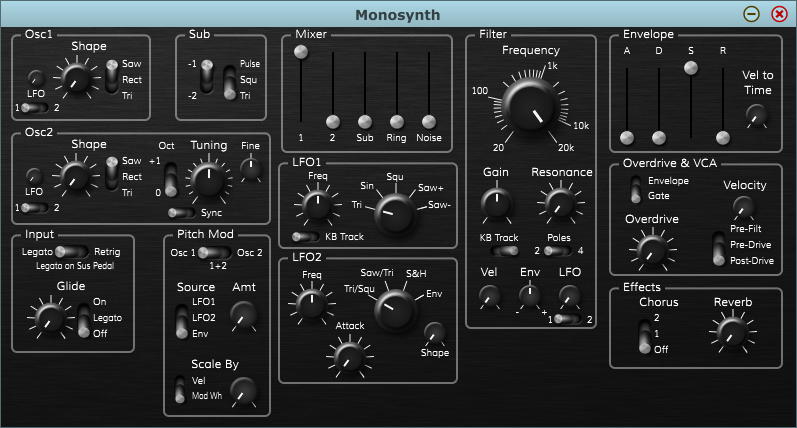
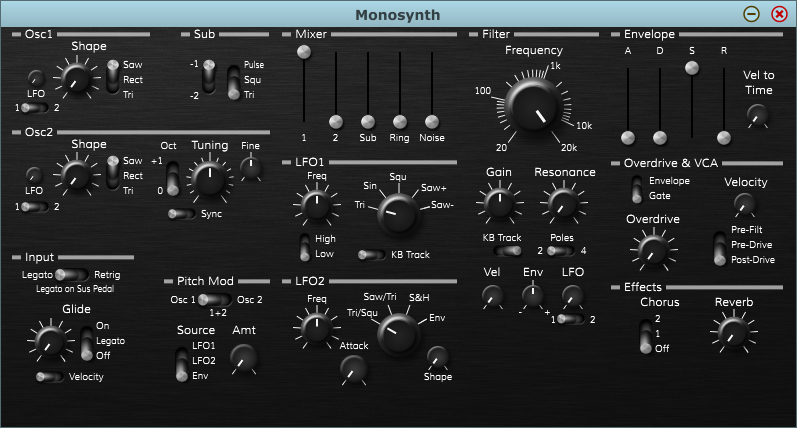
De-uglified group components

diff --git a/Source/Gui/MainGui.cpp b/Source/Gui/MainGui.cpp
@@ -45,17 +45,17 @@ MainGui::MainGui (MonosynthAudioProcessor& p)
 
     addAndMakeVisible (groupComponent10 = new GroupComponent ("new group",
                                                               TRANS("LFO2")));
-    groupComponent10->setColour (GroupComponent::outlineColourId, Colour (0x66ffffff));
+    groupComponent10->setColour (GroupComponent::outlineColourId, Colour (0x99ffffff));
     groupComponent10->setColour (GroupComponent::textColourId, Colours::white);
 
     addAndMakeVisible (groupComponent12 = new GroupComponent ("new group",
                                                               TRANS("Effects")));
-    groupComponent12->setColour (GroupComponent::outlineColourId, Colour (0x66ffffff));
+    groupComponent12->setColour (GroupComponent::outlineColourId, Colour (0x99ffffff));
     groupComponent12->setColour (GroupComponent::textColourId, Colours::white);
 
     addAndMakeVisible (groupComponent11 = new GroupComponent ("new group",
                                                               TRANS("Pitch Mod")));
-    groupComponent11->setColour (GroupComponent::outlineColourId, Colour (0x66ffffff));
+    groupComponent11->setColour (GroupComponent::outlineColourId, Colour (0x99ffffff));
     groupComponent11->setColour (GroupComponent::textColourId, Colours::white);
 
     addAndMakeVisible (label70 = new Label ("new label",
@@ -84,12 +84,12 @@ MainGui::MainGui (MonosynthAudioProcessor& p)
 
     addAndMakeVisible (groupComponent2 = new GroupComponent ("new group",
                                                              TRANS("Mixer")));
-    groupComponent2->setColour (GroupComponent::outlineColourId, Colour (0x66ffffff));
+    groupComponent2->setColour (GroupComponent::outlineColourId, Colour (0x99ffffff));
     groupComponent2->setColour (GroupComponent::textColourId, Colours::white);
 
     addAndMakeVisible (groupComponent6 = new GroupComponent ("new group",
                                                              TRANS("Overdrive & VCA")));
-    groupComponent6->setColour (GroupComponent::outlineColourId, Colour (0x66ffffff));
+    groupComponent6->setColour (GroupComponent::outlineColourId, Colour (0x99ffffff));
     groupComponent6->setColour (GroupComponent::textColourId, Colours::white);
 
     addAndMakeVisible (groupComponent13 = new GroupComponent ("new group",
@@ -99,7 +99,7 @@ MainGui::MainGui (MonosynthAudioProcessor& p)
 
     addAndMakeVisible (groupComponent3 = new GroupComponent ("new group",
                                                              TRANS("Filter")));
-    groupComponent3->setColour (GroupComponent::outlineColourId, Colour (0x66ffffff));
+    groupComponent3->setColour (GroupComponent::outlineColourId, Colour (0x99ffffff));
     groupComponent3->setColour (GroupComponent::textColourId, Colours::white);
 
     addAndMakeVisible (swi_filt_poles = new Slider ("Filter Poles"));
@@ -110,12 +110,12 @@ MainGui::MainGui (MonosynthAudioProcessor& p)
 
     addAndMakeVisible (groupComponent4 = new GroupComponent ("new group",
                                                              TRANS("Osc2")));
-    groupComponent4->setColour (GroupComponent::outlineColourId, Colour (0x66ffffff));
+    groupComponent4->setColour (GroupComponent::outlineColourId, Colour (0x99ffffff));
     groupComponent4->setColour (GroupComponent::textColourId, Colours::white);
 
     addAndMakeVisible (groupComponent = new GroupComponent ("new group",
                                                             TRANS("Osc1")));
-    groupComponent->setColour (GroupComponent::outlineColourId, Colour (0x66ffffff));
+    groupComponent->setColour (GroupComponent::outlineColourId, Colour (0x99ffffff));
     groupComponent->setColour (GroupComponent::textColourId, Colours::white);
 
     addAndMakeVisible (sli_o1_sh = new Slider ("Osc 1 Shape"));
@@ -126,12 +126,12 @@ MainGui::MainGui (MonosynthAudioProcessor& p)
 
     addAndMakeVisible (groupComponent8 = new GroupComponent ("new group",
                                                              TRANS("Input")));
-    groupComponent8->setColour (GroupComponent::outlineColourId, Colour (0x66ffffff));
+    groupComponent8->setColour (GroupComponent::outlineColourId, Colour (0x99ffffff));
     groupComponent8->setColour (GroupComponent::textColourId, Colours::white);
 
     addAndMakeVisible (groupComponent5 = new GroupComponent ("new group",
                                                              TRANS("Sub")));
-    groupComponent5->setColour (GroupComponent::outlineColourId, Colour (0x66ffffff));
+    groupComponent5->setColour (GroupComponent::outlineColourId, Colour (0x99ffffff));
     groupComponent5->setColour (GroupComponent::textColourId, Colours::white);
 
     addAndMakeVisible (sli_o2_sh = new Slider ("Osc 2 Shape"));
@@ -325,7 +325,7 @@ MainGui::MainGui (MonosynthAudioProcessor& p)
 
     addAndMakeVisible (groupComponent7 = new GroupComponent ("new group",
                                                              TRANS("Envelope")));
-    groupComponent7->setColour (GroupComponent::outlineColourId, Colour (0x66ffffff));
+    groupComponent7->setColour (GroupComponent::outlineColourId, Colour (0x99ffffff));
     groupComponent7->setColour (GroupComponent::textColourId, Colours::white);
 
     addAndMakeVisible (sli_env_att = new Slider ("Env Attack"));
@@ -411,7 +411,7 @@ MainGui::MainGui (MonosynthAudioProcessor& p)
 
     addAndMakeVisible (groupComponent9 = new GroupComponent ("new group",
                                                              TRANS("LFO1")));
-    groupComponent9->setColour (GroupComponent::outlineColourId, Colour (0x66ffffff));
+    groupComponent9->setColour (GroupComponent::outlineColourId, Colour (0x99ffffff));
     groupComponent9->setColour (GroupComponent::textColourId, Colours::white);
 
     addAndMakeVisible (sli_glide_amt = new Slider ("new slider"));
@@ -1537,10 +1537,10 @@ void MainGui::resized()
 
     groupComponent10->setBounds (278, 247, 181, 118);
     groupComponent12->setBounds (607, 253, 178, 91);
-    groupComponent11->setBounds (160, 237, 112, 128);
-    label70->setBounds (162, 259, 38, 8);
-    label80->setBounds (189, 271, 56, 10);
-    swi_pitchmod_dest->setBounds (188, 253, 56, 20);
+    groupComponent11->setBounds (160, 247, 112, 118);
+    label70->setBounds (162, 269, 38, 8);
+    label80->setBounds (189, 281, 56, 10);
+    swi_pitchmod_dest->setBounds (188, 263, 56, 20);
     groupComponent2->setBounds (278, 0, 181, 128);
     groupComponent6->setBounds (607, 129, 178, 122);
     groupComponent13->setBounds (1400, -128, 240, 80);
@@ -1585,7 +1585,7 @@ void MainGui::resized()
     label20->setBounds (711, 16, 24, 16);
     sli_filt_gain->setBounds (471, 153, 56, 48);
     label21->setBounds (470, 137, 56, 16);
-    sli_pitchmod_amt->setBounds (223, 305, 40, 40);
+    sli_pitchmod_amt->setBounds (223, 311, 40, 40);
     label7->setBounds (13, 159, 40, 10);
     label25->setBounds (15, 62, 40, 10);
     groupComponent9->setBounds (278, 128, 181, 116);
@@ -1626,7 +1626,7 @@ void MainGui::resized()
     label64->setBounds (90, 308, 39, 12);
     label65->setBounds (90, 324, 32, 10);
     swi_glide->setBounds (76, 285, 20, 56);
-    label69->setBounds (231, 259, 38, 8);
+    label69->setBounds (231, 269, 38, 8);
     label23->setBounds (575, 219, 16, 10);
     label72->setBounds (531, 219, 16, 10);
     label73->setBounds (541, 206, 40, 10);
@@ -1647,16 +1647,16 @@ void MainGui::resized()
     label88->setBounds (309, 206, 36, 12);
     label90->setBounds (309, 221, 36, 12);
     swi_lfo1_range->setBounds (296, 198, 16, 40);
-    label91->setBounds (186, 308, 40, 10);
-    label92->setBounds (186, 323, 40, 10);
-    label93->setBounds (186, 338, 40, 10);
-    swi_pitchmod_src->setBounds (171, 300, 20, 56);
+    label91->setBounds (186, 314, 40, 10);
+    label92->setBounds (186, 329, 40, 10);
+    label93->setBounds (186, 344, 40, 10);
+    swi_pitchmod_src->setBounds (171, 306, 20, 56);
     label96->setBounds (385, 223, 61, 10);
     swi_lfo1_kb->setBounds (353, 220, 40, 16);
     label100->setBounds (60, 110, 56, 14);
     label101->setBounds (60, 12, 56, 14);
-    label105->setBounds (223, 289, 40, 16);
-    label106->setBounds (163, 289, 64, 16);
+    label105->setBounds (223, 295, 40, 16);
+    label106->setBounds (163, 295, 64, 16);
     label76->setBounds (538, 280, 18, 10);
     label77->setBounds (511, 280, 15, 10);
     label110->setBounds (486, 113, 25, 16);
@@ -2123,59 +2123,59 @@ BEGIN_JUCER_METADATA
                  initialHeight="400">
   <BACKGROUND backgroundColour="ff1c1c1c"/>
   <GROUPCOMPONENT name="new group" id="2f9f6ffa0d9e55e2" memberName="groupComponent10"
-                  virtualName="" explicitFocusOrder="0" pos="278 247 181 118" outlinecol="66ffffff"
+                  virtualName="" explicitFocusOrder="0" pos="278 247 181 118" outlinecol="99ffffff"
                   textcol="ffffffff" title="LFO2"/>
   <GROUPCOMPONENT name="new group" id="9da2be2e767c916e" memberName="groupComponent12"
-                  virtualName="" explicitFocusOrder="0" pos="607 253 178 91" outlinecol="66ffffff"
+                  virtualName="" explicitFocusOrder="0" pos="607 253 178 91" outlinecol="99ffffff"
                   textcol="ffffffff" title="Effects"/>
   <GROUPCOMPONENT name="new group" id="303c96ba3a6d7786" memberName="groupComponent11"
-                  virtualName="" explicitFocusOrder="0" pos="160 237 112 128" outlinecol="66ffffff"
+                  virtualName="" explicitFocusOrder="0" pos="160 247 112 118" outlinecol="99ffffff"
                   textcol="ffffffff" title="Pitch Mod"/>
   <LABEL name="new label" id="331f3423dbdd9216" memberName="label70" virtualName=""
-         explicitFocusOrder="0" pos="162 259 38 8" textCol="ffffffff"
+         explicitFocusOrder="0" pos="162 269 38 8" textCol="ffffffff"
          edTextCol="ff000000" edBkgCol="0" labelText="Osc 1" editableSingleClick="0"
          editableDoubleClick="0" focusDiscardsChanges="0" fontname="Default font"
          fontsize="12" bold="0" italic="0" justification="34"/>
   <LABEL name="new label" id="37e280526a434fe5" memberName="label80" virtualName=""
-         explicitFocusOrder="0" pos="189 271 56 10" textCol="ffffffff"
+         explicitFocusOrder="0" pos="189 281 56 10" textCol="ffffffff"
          edTextCol="ff000000" edBkgCol="0" labelText="1+2" editableSingleClick="0"
          editableDoubleClick="0" focusDiscardsChanges="0" fontname="Default font"
          fontsize="12" bold="0" italic="0" justification="36"/>
   <SLIDER name="new slider" id="6fa656f8bb87a7db" memberName="swi_pitchmod_dest"
-          virtualName="" explicitFocusOrder="0" pos="188 253 56 20" min="1"
+          virtualName="" explicitFocusOrder="0" pos="188 263 56 20" min="1"
           max="2" int="0.5" style="LinearHorizontal" textBoxPos="NoTextBox"
           textBoxEditable="1" textBoxWidth="80" textBoxHeight="20" skewFactor="1"/>
   <GROUPCOMPONENT name="new group" id="2bd57dadf55e124b" memberName="groupComponent2"
-                  virtualName="" explicitFocusOrder="0" pos="278 0 181 128" outlinecol="66ffffff"
+                  virtualName="" explicitFocusOrder="0" pos="278 0 181 128" outlinecol="99ffffff"
                   textcol="ffffffff" title="Mixer"/>
   <GROUPCOMPONENT name="new group" id="d354cd4b1913022f" memberName="groupComponent6"
-                  virtualName="" explicitFocusOrder="0" pos="607 129 178 122" outlinecol="66ffffff"
+                  virtualName="" explicitFocusOrder="0" pos="607 129 178 122" outlinecol="99ffffff"
                   textcol="ffffffff" title="Overdrive &amp; VCA"/>
   <GROUPCOMPONENT name="new group" id="4290aa3f94cba83c" memberName="groupComponent13"
                   virtualName="" explicitFocusOrder="0" pos="1400 -128 240 80"
                   outlinecol="66ffffff" textcol="ffffffff" title="Effects"/>
   <GROUPCOMPONENT name="new group" id="b5f4751ee1ed8057" memberName="groupComponent3"
-                  virtualName="" explicitFocusOrder="0" pos="465 0 136 304" outlinecol="66ffffff"
+                  virtualName="" explicitFocusOrder="0" pos="465 0 136 304" outlinecol="99ffffff"
                   textcol="ffffffff" title="Filter"/>
   <SLIDER name="Filter Poles" id="9366d7598a118d48" memberName="swi_filt_poles"
           virtualName="" explicitFocusOrder="0" pos="542 216 40 16" min="2"
           max="4" int="2" style="LinearHorizontal" textBoxPos="NoTextBox"
           textBoxEditable="1" textBoxWidth="80" textBoxHeight="20" skewFactor="1"/>
   <GROUPCOMPONENT name="new group" id="3c0dca09a310f370" memberName="groupComponent4"
-                  virtualName="" explicitFocusOrder="0" pos="8 98 264 102" outlinecol="66ffffff"
+                  virtualName="" explicitFocusOrder="0" pos="8 98 264 102" outlinecol="99ffffff"
                   textcol="ffffffff" title="Osc2"/>
   <GROUPCOMPONENT name="new group" id="9fb59b5f6494cccc" memberName="groupComponent"
-                  virtualName="" explicitFocusOrder="0" pos="8 0 144 96" outlinecol="66ffffff"
+                  virtualName="" explicitFocusOrder="0" pos="8 0 144 96" outlinecol="99ffffff"
                   textcol="ffffffff" title="Osc1"/>
   <SLIDER name="Osc 1 Shape" id="13d0d9d98ecd6c62" memberName="sli_o1_sh"
           virtualName="" explicitFocusOrder="0" pos="48 28 56 48" min="0"
           max="10" int="0" style="RotaryVerticalDrag" textBoxPos="NoTextBox"
           textBoxEditable="1" textBoxWidth="80" textBoxHeight="20" skewFactor="1"/>
   <GROUPCOMPONENT name="new group" id="d9483dc1d74a73c9" memberName="groupComponent8"
-                  virtualName="" explicitFocusOrder="0" pos="8 223 128 142" outlinecol="66ffffff"
+                  virtualName="" explicitFocusOrder="0" pos="8 223 128 142" outlinecol="99ffffff"
                   textcol="ffffffff" title="Input"/>
   <GROUPCOMPONENT name="new group" id="f6c32fd096d279ac" memberName="groupComponent5"
-                  virtualName="" explicitFocusOrder="0" pos="177 0 94 96" outlinecol="66ffffff"
+                  virtualName="" explicitFocusOrder="0" pos="177 0 94 96" outlinecol="99ffffff"
                   textcol="ffffffff" title="Sub"/>
   <SLIDER name="Osc 2 Shape" id="cc7559654e6a39df" memberName="sli_o2_sh"
           virtualName="" explicitFocusOrder="0" pos="48 125 56 48" min="0"
@@ -2293,7 +2293,7 @@ BEGIN_JUCER_METADATA
          editableDoubleClick="0" focusDiscardsChanges="0" fontname="Default font"
          fontsize="15" bold="0" italic="0" justification="36"/>
   <GROUPCOMPONENT name="new group" id="8e4a429367bb6ed1" memberName="groupComponent7"
-                  virtualName="" explicitFocusOrder="0" pos="607 0 178 128" outlinecol="66ffffff"
+                  virtualName="" explicitFocusOrder="0" pos="607 0 178 128" outlinecol="99ffffff"
                   textcol="ffffffff" title="Envelope"/>
   <SLIDER name="Env Attack" id="9256184baa5e0e12" memberName="sli_env_att"
           virtualName="" explicitFocusOrder="0" pos="615 32 24 88" min="0"
@@ -2329,7 +2329,7 @@ BEGIN_JUCER_METADATA
          editableDoubleClick="0" focusDiscardsChanges="0" fontname="Default font"
          fontsize="15" bold="0" italic="0" justification="36"/>
   <SLIDER name="new slider" id="12fca17f8b6adf7a" memberName="sli_pitchmod_amt"
-          virtualName="" explicitFocusOrder="0" pos="223 305 40 40" min="0"
+          virtualName="" explicitFocusOrder="0" pos="223 311 40 40" min="0"
           max="10" int="0" style="RotaryVerticalDrag" textBoxPos="NoTextBox"
           textBoxEditable="1" textBoxWidth="80" textBoxHeight="20" skewFactor="1"/>
   <LABEL name="new label" id="208afd31b5af01cf" memberName="label7" virtualName=""
@@ -2343,7 +2343,7 @@ BEGIN_JUCER_METADATA
          focusDiscardsChanges="0" fontname="Default font" fontsize="12"
          bold="0" italic="0" justification="36"/>
   <GROUPCOMPONENT name="new group" id="d530435b1472d6bd" memberName="groupComponent9"
-                  virtualName="" explicitFocusOrder="0" pos="278 128 181 116" outlinecol="66ffffff"
+                  virtualName="" explicitFocusOrder="0" pos="278 128 181 116" outlinecol="99ffffff"
                   textcol="ffffffff" title="LFO1"/>
   <SLIDER name="new slider" id="ca4ffa3f27169af8" memberName="sli_glide_amt"
           virtualName="" explicitFocusOrder="0" pos="22 291 56 48" min="0"
@@ -2514,7 +2514,7 @@ BEGIN_JUCER_METADATA
           max="2" int="1" style="LinearVertical" textBoxPos="NoTextBox"
           textBoxEditable="1" textBoxWidth="80" textBoxHeight="20" skewFactor="1"/>
   <LABEL name="new label" id="f621af72285c3ecd" memberName="label69" virtualName=""
-         explicitFocusOrder="0" pos="231 259 38 8" textCol="ffffffff"
+         explicitFocusOrder="0" pos="231 269 38 8" textCol="ffffffff"
          edTextCol="ff000000" edBkgCol="0" labelText="Osc 2" editableSingleClick="0"
          editableDoubleClick="0" focusDiscardsChanges="0" fontname="Default font"
          fontsize="12" bold="0" italic="0" justification="33"/>
@@ -2613,22 +2613,22 @@ BEGIN_JUCER_METADATA
           max="1" int="1" style="LinearVertical" textBoxPos="NoTextBox"
           textBoxEditable="1" textBoxWidth="80" textBoxHeight="20" skewFactor="1"/>
   <LABEL name="new label" id="c9563633985aee29" memberName="label91" virtualName=""
-         explicitFocusOrder="0" pos="186 308 40 10" textCol="ffffffff"
+         explicitFocusOrder="0" pos="186 314 40 10" textCol="ffffffff"
          edTextCol="ff000000" edBkgCol="0" labelText="LFO1" editableSingleClick="0"
          editableDoubleClick="0" focusDiscardsChanges="0" fontname="Default font"
          fontsize="12" bold="0" italic="0" justification="33"/>
   <LABEL name="new label" id="178f041b11b3989c" memberName="label92" virtualName=""
-         explicitFocusOrder="0" pos="186 323 40 10" textCol="ffffffff"
+         explicitFocusOrder="0" pos="186 329 40 10" textCol="ffffffff"
          edTextCol="ff000000" edBkgCol="0" labelText="LFO2" editableSingleClick="0"
          editableDoubleClick="0" focusDiscardsChanges="0" fontname="Default font"
          fontsize="12" bold="0" italic="0" justification="33"/>
   <LABEL name="new label" id="5993e8b0b82bffbf" memberName="label93" virtualName=""
-         explicitFocusOrder="0" pos="186 338 40 10" textCol="ffffffff"
+         explicitFocusOrder="0" pos="186 344 40 10" textCol="ffffffff"
          edTextCol="ff000000" edBkgCol="0" labelText="Env" editableSingleClick="0"
          editableDoubleClick="0" focusDiscardsChanges="0" fontname="Default font"
          fontsize="12" bold="0" italic="0" justification="33"/>
   <SLIDER name="new slider" id="2786e978180c30a5" memberName="swi_pitchmod_src"
-          virtualName="" explicitFocusOrder="0" pos="171 300 20 56" min="0"
+          virtualName="" explicitFocusOrder="0" pos="171 306 20 56" min="0"
           max="2" int="1" style="LinearVertical" textBoxPos="NoTextBox"
           textBoxEditable="1" textBoxWidth="80" textBoxHeight="20" skewFactor="1"/>
   <LABEL name="new label" id="5fbafef03a41acb0" memberName="label96" virtualName=""
@@ -2651,12 +2651,12 @@ BEGIN_JUCER_METADATA
          editableDoubleClick="0" focusDiscardsChanges="0" fontname="Default font"
          fontsize="15" bold="0" italic="0" justification="36"/>
   <LABEL name="new label" id="4f9e29710ea85f8b" memberName="label105"
-         virtualName="" explicitFocusOrder="0" pos="223 289 40 16" textCol="ffffffff"
+         virtualName="" explicitFocusOrder="0" pos="223 295 40 16" textCol="ffffffff"
          edTextCol="ff000000" edBkgCol="0" labelText="Amt" editableSingleClick="0"
          editableDoubleClick="0" focusDiscardsChanges="0" fontname="Default font"
          fontsize="15" bold="0" italic="0" justification="36"/>
   <LABEL name="new label" id="3e6b1bc0984a82f6" memberName="label106"
-         virtualName="" explicitFocusOrder="0" pos="163 289 64 16" textCol="ffffffff"
+         virtualName="" explicitFocusOrder="0" pos="163 295 64 16" textCol="ffffffff"
          edTextCol="ff000000" edBkgCol="0" labelText="Source" editableSingleClick="0"
          editableDoubleClick="0" focusDiscardsChanges="0" fontname="Default font"
          fontsize="15" bold="0" italic="0" justification="36"/>

diff --git a/Source/Gui/LookAndFeel.cpp b/Source/Gui/LookAndFeel.cpp
@@ -480,4 +480,63 @@ namespace Gui {
 		return Font::getDefaultTypefaceForFont(f);
 	}
 
+	// Copied and modified from juce::LookAndFeel_V2
+	void DefaultLookAndFeel::drawGroupComponentOutline(
+		Graphics& g,
+		int width, int height,
+		const String& text,
+		const Justification& position,
+		GroupComponent& group)
+	{
+		const float lineWidth = 4.0f;
+		const float textH = 15.0f;
+		const float indent = 3.0f;
+		const float textEdgeGap = 4.0f;
+		float cs = 5.0f;
+		
+		Font f(textH);
+
+		//Path p;
+		float x = indent;
+		float y = f.getAscent() - 3.0f;
+		float w = jmax(0.0f, width - x * 2.0f);
+		float h = jmax(0.0f, height - y - indent);
+		cs = jmin(cs, w * 0.5f, h * 0.5f);
+		const float cs2 = 2.0f * cs;
+
+		float textW = text.isEmpty() ? 0 : jlimit(0.0f, jmax(0.0f, w - cs2 - textEdgeGap * 2), f.getStringWidth(text) + textEdgeGap * 2.0f);
+		float textX = cs + textEdgeGap;
+
+		if (position.testFlags(Justification::horizontallyCentred))
+			textX = cs + (w - cs2 - textW) * 0.5f;
+		else if (position.testFlags(Justification::right))
+			textX = w - cs - textW - textEdgeGap;
+
+		const float alpha = group.isEnabled() ? 1.0f : 0.5f;
+
+		g.setColour(group.findColour(GroupComponent::outlineColourId)
+			.withMultipliedAlpha(alpha));
+		
+		const float lineY = y-1;
+
+		g.drawLine(
+			x + textX + textW, lineY,
+			x + w, lineY,
+			lineWidth);
+
+		g.drawLine(
+			x + textX, lineY,
+			x, lineY,
+			lineWidth);
+
+		g.setColour(group.findColour(GroupComponent::textColourId)
+			.withMultipliedAlpha(alpha));
+		g.setFont(f);
+		g.drawText(text,
+			roundToInt(x + textX), 0,
+			roundToInt(textW),
+			roundToInt(textH),
+			Justification::centred, true);
+	}
+
 } // namespace Gui

diff --git a/Source/Gui/LookAndFeel.h b/Source/Gui/LookAndFeel.h
@@ -43,6 +43,11 @@ namespace Gui {
 			override;
 
 		juce::Typeface::Ptr getTypefaceForFont(const juce::Font &) override;
+
+		void drawGroupComponentOutline(
+			juce::Graphics& g, int width, int height,
+			const juce::String& text, const juce::Justification& position,
+			juce::GroupComponent& group) override;
 	};
 
 	class TuningKnobLookAndFeel : public DefaultLookAndFeel {
